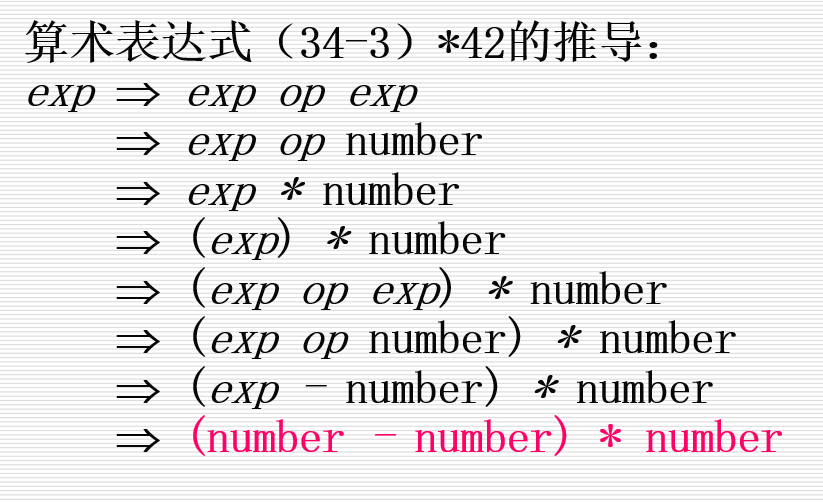
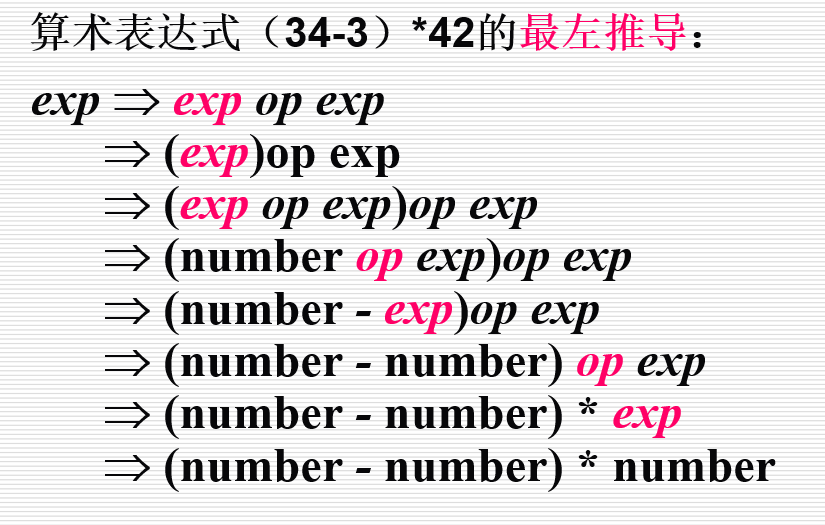
Site updated: 2019-06-17 10:44:02

diff --git a/2019/06/13/Compilation/index.html b/2019/06/13/Compilation/index.html
@@ -112,8 +112,10 @@
 <meta property="og:image" content="http://yoursite.com/2019/06/13/Compilation/minDFA_final.png">
 <meta property="og:image" content="http://yoursite.com/2019/06/13/Compilation/DFA_for_code.png">
 <meta property="og:image" content="http://yoursite.com/2019/06/13/Compilation/example_G.png">
-<meta property="og:image" content="http://yoursite.com/2019/06/13/Compilation/leftderivation.png">
-<meta property="og:updated_time" content="2019-06-16T10:42:09.712Z">
+<meta property="og:image" content="http://yoursite.com/2019/06/13/Compilation/derivation.png">
+<meta property="og:image" content="http://yoursite.com/2019/06/13/Compilation/leftDerivation.png">
+<meta property="og:image" content="http://yoursite.com/2019/06/13/Compilation/rightDerivation.png">
+<meta property="og:updated_time" content="2019-06-17T01:43:18.844Z">
 <meta name="twitter:card" content="summary">
 <meta name="twitter:title" content="编译原理重点整理">
 <meta name="twitter:description" content="整理编译原理课程的知识点">
@@ -360,7 +362,7 @@
                 
                   <span class="post-meta-item-text">更新于</span>
                 
-                <time title="修改时间：2019-06-16 19:42:09" itemprop="dateModified" datetime="2019-06-16T19:42:09+09:00">2019-06-16</time>
+                <time title="修改时间：2019-06-17 10:43:18" itemprop="dateModified" datetime="2019-06-17T10:43:18+09:00">2019-06-17</time>
               
             
           </span>
@@ -522,8 +524,11 @@
 </tbody>
 </table>
 </div>
-<h4 id="句子和句型的定义"><a href="#句子和句型的定义" class="headerlink" title="句子和句型的定义"></a>句子和句型的定义</h4><p>设$G=(V_T,V_N,P,S)$是一文法，且$V=V_N \cup V_T$<br>若$S=&gt;^\star\alpha,\alpha \in V^\star$，则称$\alpha为文法G的句型$<br>若$S=&gt;+\alpha,\alpha \in V_T^\star$，则称$\alpha为文法G的句子$<br>以下为算术表达式$(34-3)*42$的其中一种推导<br><img src="/2019/06/13/Compilation/leftderivation.png" alt="最左推导">  </p>
-<h4 id="最左和最右推导"><a href="#最左和最右推导" class="headerlink" title="最左和最右推导"></a>最左和最右推导</h4>
+<h4 id="句子和句型的定义"><a href="#句子和句型的定义" class="headerlink" title="句子和句型的定义"></a>句子和句型的定义</h4><p>设$G=(V_T,V_N,P,S)$是一文法，且$V=V_N \cup V_T$<br>若$S\Rightarrow^\star\alpha,\alpha \in V^\star$，则称$\alpha为文法G的句型$<br>若$S\Rightarrow+\alpha,\alpha \in V_T^\star$，则称$\alpha为文法G的句子$<br>以下为算术表达式$(34-3)*42$的其中一种推导<br><img src="/2019/06/13/Compilation/derivation.png" alt="最左推导">  </p>
+<h4 id="最左和最右推导"><a href="#最左和最右推导" class="headerlink" title="最左和最右推导"></a>最左和最右推导</h4><p><strong>最左推导：</strong> 对于文法$G[S], S\Rightarrow\star\gamma$最左推导是指在由$S$推导$\gamma$的过程中，任何一步直接推导$\alpha\Rightarrow\beta$,都是用字符串$\alpha$中的最左非终结符对应的产生式规则进行推导，其中$\alpha,\beta$是句型<br>以下为算术表达式$(34-3)*42$的最左推导<br><img src="/2019/06/13/Compilation/leftDerivation.png" alt="最左推导">  </p>
+<p><strong>最右推导：</strong> 对于文法$G[S], S\Rightarrow\star\gamma$最右推导是指在由$S$推导$\gamma$的过程中，任何一步直接推导$\alpha\Rightarrow\beta$,都是用字符串$\alpha$中的最右非终结符对应的产生式规则进行推导，其中$\alpha,\beta$是句型<br>以下为算术表达式$(34-3)*42$的最右推导<br><img src="/2019/06/13/Compilation/rightDerivation.png" alt="最右推导">  </p>
+<h4 id="文法定义的语言"><a href="#文法定义的语言" class="headerlink" title="文法定义的语言"></a>文法定义的语言</h4><p>语言是所有句子构成的集合，上下文无关文法定义的语言称作上下文无关语言  </p>
+
       
     </div>
 
@@ -676,7 +681,7 @@
             
 
             
-              <div class="post-toc-content"><ol class="nav"><li class="nav-item nav-level-2"><a class="nav-link" href="#词法分析"><span class="nav-number">1.</span> <span class="nav-text">词法分析</span></a><ol class="nav-child"><li class="nav-item nav-level-3"><a class="nav-link" href="#词法分析器的任务"><span class="nav-number">1.1.</span> <span class="nav-text">词法分析器的任务</span></a></li><li class="nav-item nav-level-3"><a class="nav-link" href="#词法分析器的输出"><span class="nav-number">1.2.</span> <span class="nav-text">词法分析器的输出</span></a></li><li class="nav-item nav-level-3"><a class="nav-link" href="#一些基本概念和术语"><span class="nav-number">1.3.</span> <span class="nav-text">一些基本概念和术语</span></a><ol class="nav-child"><li class="nav-item nav-level-4"><a class="nav-link" href="#正则表达式"><span class="nav-number">1.3.1.</span> <span class="nav-text">正则表达式</span></a></li><li class="nav-item nav-level-4"><a class="nav-link" href="#正规表达式的定义（续）"><span class="nav-number">1.3.2.</span> <span class="nav-text">正规表达式的定义（续）</span></a></li><li class="nav-item nav-level-4"><a class="nav-link" href="#正规表达式的扩展"><span class="nav-number">1.3.3.</span> <span class="nav-text">正规表达式的扩展</span></a></li></ol></li><li class="nav-item nav-level-3"><a class="nav-link" href="#有穷自动机"><span class="nav-number">1.4.</span> <span class="nav-text">有穷自动机</span></a><ol class="nav-child"><li class="nav-item nav-level-4"><a class="nav-link" href="#确定性有穷自动机"><span class="nav-number">1.4.1.</span> <span class="nav-text">确定性有穷自动机</span></a></li><li class="nav-item nav-level-4"><a class="nav-link" href="#非确定性有穷自动机"><span class="nav-number">1.4.2.</span> <span class="nav-text">非确定性有穷自动机</span></a></li></ol></li><li class="nav-item nav-level-3"><a class="nav-link" href="#从正规表达式到DFA（本章最大重点）"><span class="nav-number">1.5.</span> <span class="nav-text">从正规表达式到DFA（本章最大重点）</span></a><ol class="nav-child"><li class="nav-item nav-level-4"><a class="nav-link" href="#从正规式到NFA"><span class="nav-number">1.5.1.</span> <span class="nav-text">从正规式到NFA</span></a></li><li class="nav-item nav-level-4"><a class="nav-link" href="#从NFA到DFA"><span class="nav-number">1.5.2.</span> <span class="nav-text">从NFA到DFA</span></a></li><li class="nav-item nav-level-4"><a class="nav-link" href="#将DFA中的状态最小化"><span class="nav-number">1.5.3.</span> <span class="nav-text">将DFA中的状态最小化</span></a><ol class="nav-child"><li class="nav-item nav-level-5"><a class="nav-link" href="#如何找到最小化的DFA"><span class="nav-number">1.5.3.1.</span> <span class="nav-text">如何找到最小化的DFA</span></a></li></ol></li></ol></li><li class="nav-item nav-level-3"><a class="nav-link" href="#用代码实现有穷自动机"><span class="nav-number">1.6.</span> <span class="nav-text">用代码实现有穷自动机</span></a></li></ol></li><li class="nav-item nav-level-2"><a class="nav-link" href="#上下文无关文法"><span class="nav-number">2.</span> <span class="nav-text">上下文无关文法</span></a><ol class="nav-child"><li class="nav-item nav-level-3"><a class="nav-link" href="#上下文无关文法的形式定义"><span class="nav-number">2.1.</span> <span class="nav-text">上下文无关文法的形式定义</span></a><ol class="nav-child"><li class="nav-item nav-level-4"><a class="nav-link" href="#推导和规约的定义"><span class="nav-number">2.1.1.</span> <span class="nav-text">推导和规约的定义</span></a></li><li class="nav-item nav-level-4"><a class="nav-link" href="#句子和句型的定义"><span class="nav-number">2.1.2.</span> <span class="nav-text">句子和句型的定义</span></a></li><li class="nav-item nav-level-4"><a class="nav-link" href="#最左和最右推导"><span class="nav-number">2.1.3.</span> <span class="nav-text">最左和最右推导</span></a></li></ol></li></ol></li></ol></div>
+              <div class="post-toc-content"><ol class="nav"><li class="nav-item nav-level-2"><a class="nav-link" href="#词法分析"><span class="nav-number">1.</span> <span class="nav-text">词法分析</span></a><ol class="nav-child"><li class="nav-item nav-level-3"><a class="nav-link" href="#词法分析器的任务"><span class="nav-number">1.1.</span> <span class="nav-text">词法分析器的任务</span></a></li><li class="nav-item nav-level-3"><a class="nav-link" href="#词法分析器的输出"><span class="nav-number">1.2.</span> <span class="nav-text">词法分析器的输出</span></a></li><li class="nav-item nav-level-3"><a class="nav-link" href="#一些基本概念和术语"><span class="nav-number">1.3.</span> <span class="nav-text">一些基本概念和术语</span></a><ol class="nav-child"><li class="nav-item nav-level-4"><a class="nav-link" href="#正则表达式"><span class="nav-number">1.3.1.</span> <span class="nav-text">正则表达式</span></a></li><li class="nav-item nav-level-4"><a class="nav-link" href="#正规表达式的定义（续）"><span class="nav-number">1.3.2.</span> <span class="nav-text">正规表达式的定义（续）</span></a></li><li class="nav-item nav-level-4"><a class="nav-link" href="#正规表达式的扩展"><span class="nav-number">1.3.3.</span> <span class="nav-text">正规表达式的扩展</span></a></li></ol></li><li class="nav-item nav-level-3"><a class="nav-link" href="#有穷自动机"><span class="nav-number">1.4.</span> <span class="nav-text">有穷自动机</span></a><ol class="nav-child"><li class="nav-item nav-level-4"><a class="nav-link" href="#确定性有穷自动机"><span class="nav-number">1.4.1.</span> <span class="nav-text">确定性有穷自动机</span></a></li><li class="nav-item nav-level-4"><a class="nav-link" href="#非确定性有穷自动机"><span class="nav-number">1.4.2.</span> <span class="nav-text">非确定性有穷自动机</span></a></li></ol></li><li class="nav-item nav-level-3"><a class="nav-link" href="#从正规表达式到DFA（本章最大重点）"><span class="nav-number">1.5.</span> <span class="nav-text">从正规表达式到DFA（本章最大重点）</span></a><ol class="nav-child"><li class="nav-item nav-level-4"><a class="nav-link" href="#从正规式到NFA"><span class="nav-number">1.5.1.</span> <span class="nav-text">从正规式到NFA</span></a></li><li class="nav-item nav-level-4"><a class="nav-link" href="#从NFA到DFA"><span class="nav-number">1.5.2.</span> <span class="nav-text">从NFA到DFA</span></a></li><li class="nav-item nav-level-4"><a class="nav-link" href="#将DFA中的状态最小化"><span class="nav-number">1.5.3.</span> <span class="nav-text">将DFA中的状态最小化</span></a><ol class="nav-child"><li class="nav-item nav-level-5"><a class="nav-link" href="#如何找到最小化的DFA"><span class="nav-number">1.5.3.1.</span> <span class="nav-text">如何找到最小化的DFA</span></a></li></ol></li></ol></li><li class="nav-item nav-level-3"><a class="nav-link" href="#用代码实现有穷自动机"><span class="nav-number">1.6.</span> <span class="nav-text">用代码实现有穷自动机</span></a></li></ol></li><li class="nav-item nav-level-2"><a class="nav-link" href="#上下文无关文法"><span class="nav-number">2.</span> <span class="nav-text">上下文无关文法</span></a><ol class="nav-child"><li class="nav-item nav-level-3"><a class="nav-link" href="#上下文无关文法的形式定义"><span class="nav-number">2.1.</span> <span class="nav-text">上下文无关文法的形式定义</span></a><ol class="nav-child"><li class="nav-item nav-level-4"><a class="nav-link" href="#推导和规约的定义"><span class="nav-number">2.1.1.</span> <span class="nav-text">推导和规约的定义</span></a></li><li class="nav-item nav-level-4"><a class="nav-link" href="#句子和句型的定义"><span class="nav-number">2.1.2.</span> <span class="nav-text">句子和句型的定义</span></a></li><li class="nav-item nav-level-4"><a class="nav-link" href="#最左和最右推导"><span class="nav-number">2.1.3.</span> <span class="nav-text">最左和最右推导</span></a></li><li class="nav-item nav-level-4"><a class="nav-link" href="#文法定义的语言"><span class="nav-number">2.1.4.</span> <span class="nav-text">文法定义的语言</span></a></li></ol></li></ol></li></ol></div>
             
 
           </div>

diff --git a/index.html b/index.html
@@ -348,7 +348,7 @@
                 
                   <span class="post-meta-item-text">更新于</span>
                 
-                <time title="修改时间：2019-06-16 19:42:09" itemprop="dateModified" datetime="2019-06-16T19:42:09+09:00">2019-06-16</time>
+                <time title="修改时间：2019-06-17 10:43:18" itemprop="dateModified" datetime="2019-06-17T10:43:18+09:00">2019-06-17</time>
               
             
           </span>

diff --git a/css/main.css b/css/main.css
@@ -1760,7 +1760,7 @@ pre .javascript .function {
   width: 4px;
   height: 4px;
   border-radius: 50%;
-  background: #fff;
+  background: #f67f34;
 }
 .feed-link,
 .chat {
